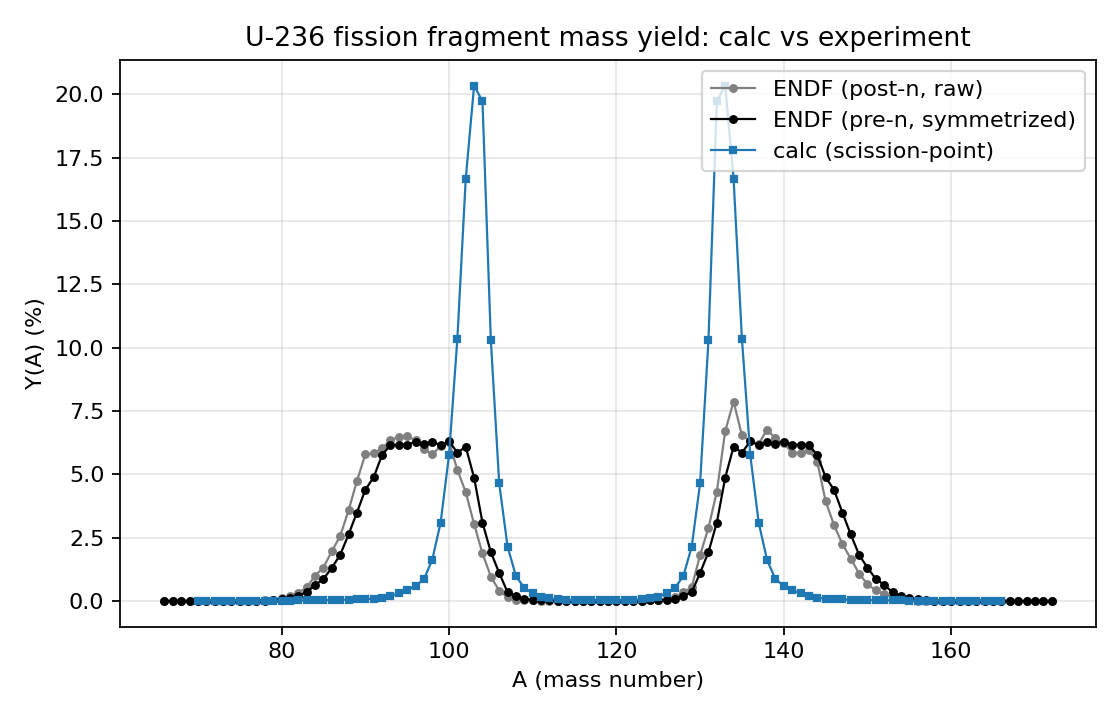
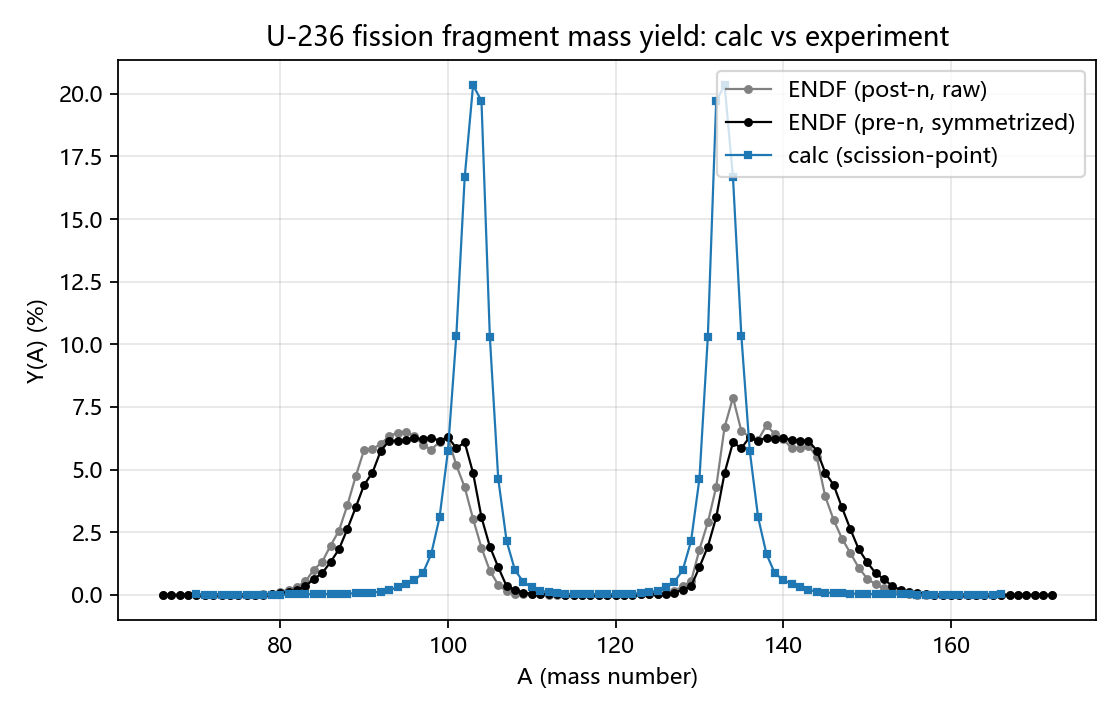
修复裂变碎片产额分布主图：用断裂点模型计算结果替换旧示意图
- compare_yield_experiment.py 新增生成裂变碎片产额分布.png
  （计算 vs 对称化实验，线性轴，标注双峰/谷，中文字体）
- 删除孤儿旧图 mass_yield.png（无脚本生成，被 mass_yield_multiT 取代）
- 更新 results/README.md 与 docs/产额实验总结.md 的图说明

diff --git a/五维势能面上原子核的随机行走/scripts/compare_yield_experiment.py b/五维势能面上原子核的随机行走/scripts/compare_yield_experiment.py
@@ -16,6 +16,7 @@
 import os
 import sys
 import csv
+import re
 import argparse
 
 import numpy as np
@@ -140,6 +141,9 @@ def main():
     matplotlib.use('Agg')
     import matplotlib.pyplot as plt
 
+    plt.rcParams["font.sans-serif"] = ["Microsoft YaHei", "SimHei", "DejaVu Sans"]
+    plt.rcParams["axes.unicode_minus"] = False
+
     # 线性轴
     fig, ax = plt.subplots(figsize=(7, 4.5))
     ax.plot(A_exp, Y_exp, 'o-', ms=3, lw=1, color='gray', label='ENDF (post-n, raw)')
@@ -169,6 +173,31 @@ def main():
     ax.grid(alpha=0.3, which='both')
     fig.tight_layout()
     fig.savefig(os.path.join(OUT_DIR, 'compare_mass_yield_log.png'), dpi=160)
+    plt.close(fig)
+
+    # 主交付图：裂变碎片产额分布（计算 vs 对称化实验，线性轴，标注双峰/谷）
+    m = re.search(r'T([\d.]+)\.csv', os.path.basename(calc_path))
+    T_label = m.group(1) if m else '?'
+    fig, ax = plt.subplots(figsize=(8, 5))
+    ax.plot(A_calc, Y_calc, '-', lw=2.2, color='tab:blue',
+            label=f'断裂点模型 (T={T_label} MeV)')
+    ax.plot(A_exp, Y_exp_sym, 'o-', ms=3.5, lw=1.1, color='k',
+            label='实验 ENDF（对称化初级）')
+    ax.plot([pc[0], pc[2]], [pc[1], pc[3]], 'v', ms=10, color='tab:blue', mec='k')
+    ax.plot(pc[4], pc[5], '^', ms=10, color='tab:red', mec='k')
+    ax.annotate(f'轻峰 A={pc[0]}', (pc[0], pc[1]), xytext=(pc[0] - 24, pc[1] + 1.0),
+                fontsize=9, color='tab:blue', arrowprops=dict(arrowstyle='-', color='tab:blue', lw=0.6))
+    ax.annotate(f'重峰 A={pc[2]}', (pc[2], pc[3]), xytext=(pc[2] - 4, pc[3] + 1.0),
+                fontsize=9, color='tab:blue', arrowprops=dict(arrowstyle='-', color='tab:blue', lw=0.6))
+    ax.annotate(f'对称谷 A={pc[4]}', (pc[4], pc[5]), xytext=(pc[4] - 30, pc[5] * 6),
+                fontsize=9, color='tab:red', arrowprops=dict(arrowstyle='-', color='tab:red', lw=0.6))
+    ax.set_xlabel('A（质量数）')
+    ax.set_ylabel('Y(A)（%）')
+    ax.set_title('U-236 裂变碎片质量产额分布：断裂点模型 vs 实验')
+    ax.legend()
+    ax.grid(alpha=0.3)
+    fig.tight_layout()
+    fig.savefig(os.path.join(OUT_DIR, '裂变碎片产额分布.png'), dpi=160)
     plt.close(fig)
 
     print('对比图已写出到 output/compare_mass_yield.png 与 compare_mass_yield_log.png')

diff --git a/五维势能面上原子核的随机行走/results/README.md b/五维势能面上原子核的随机行走/results/README.md
@@ -12,14 +12,13 @@ results/
 │   │   ├── computed_charge_yield.csv           计算电荷产额 Y(Z)
 │   │   ├── most_probable_charge.csv            最可几电荷 Z_p(A)
 │   │   └── raw/                ← 原始 ENDF 下载（.dat/.zip，共 ~53MB，可重新抓取，可删）
-│   └── figures/               ← 产额图（7 张 PNG）
+│   └── figures/               ← 产额图（6 张 PNG）
 │       ├── mass_yield_multiT.png        多温度 Y(A) 曲线
 │       ├── charge_yield.png             电荷产额 Y(Z)
 │       ├── shell_correction_vs_A.png    壳修正随 A（诊断双峰来源）
 │       ├── compare_mass_yield.png       计算 vs 实验叠图（线性轴）
 │       ├── compare_mass_yield_log.png   计算 vs 实验叠图（对数轴）
-│       ├── mass_yield.png               质量产额
-│       └── 裂变碎片产额分布.png          产额分布示意图
+│       └── 裂变碎片产额分布.png          计算 vs 实验（断裂点模型主图，线性轴，标注双峰/谷）
 └── 随机行走/                  ← 上一次实验：5D 随机行走里程碑 1（2D 对称验证）
     └── figures/               ← 随机行走图（8 张 PNG/GIF）
         ├── 对称路径宏观微观势垒.png

diff --git a/五维势能面上原子核的随机行走/docs/产额实验总结.md b/五维势能面上原子核的随机行走/docs/产额实验总结.md
@@ -150,7 +150,7 @@ E_occ   = degeneracy·Σ levels[:n_full] + n_extra·levels[n_full]
 | `shell_correction_vs_A.png` | 壳修正随 A（轻/重碎片 + 和，诊断双峰来源） |
 | `compare_mass_yield.png` | **计算 vs 实验叠加**（线性轴） |
 | `compare_mass_yield_log.png` | **计算 vs 实验叠加**（对数轴，看对称谷） |
-| `裂变碎片产额分布.png` | 产额分布示意图 |
+| `裂变碎片产额分布.png` | 计算 vs 实验主图（断裂点模型，线性轴，标注双峰/谷） |
 
 ### 核心结果
 
